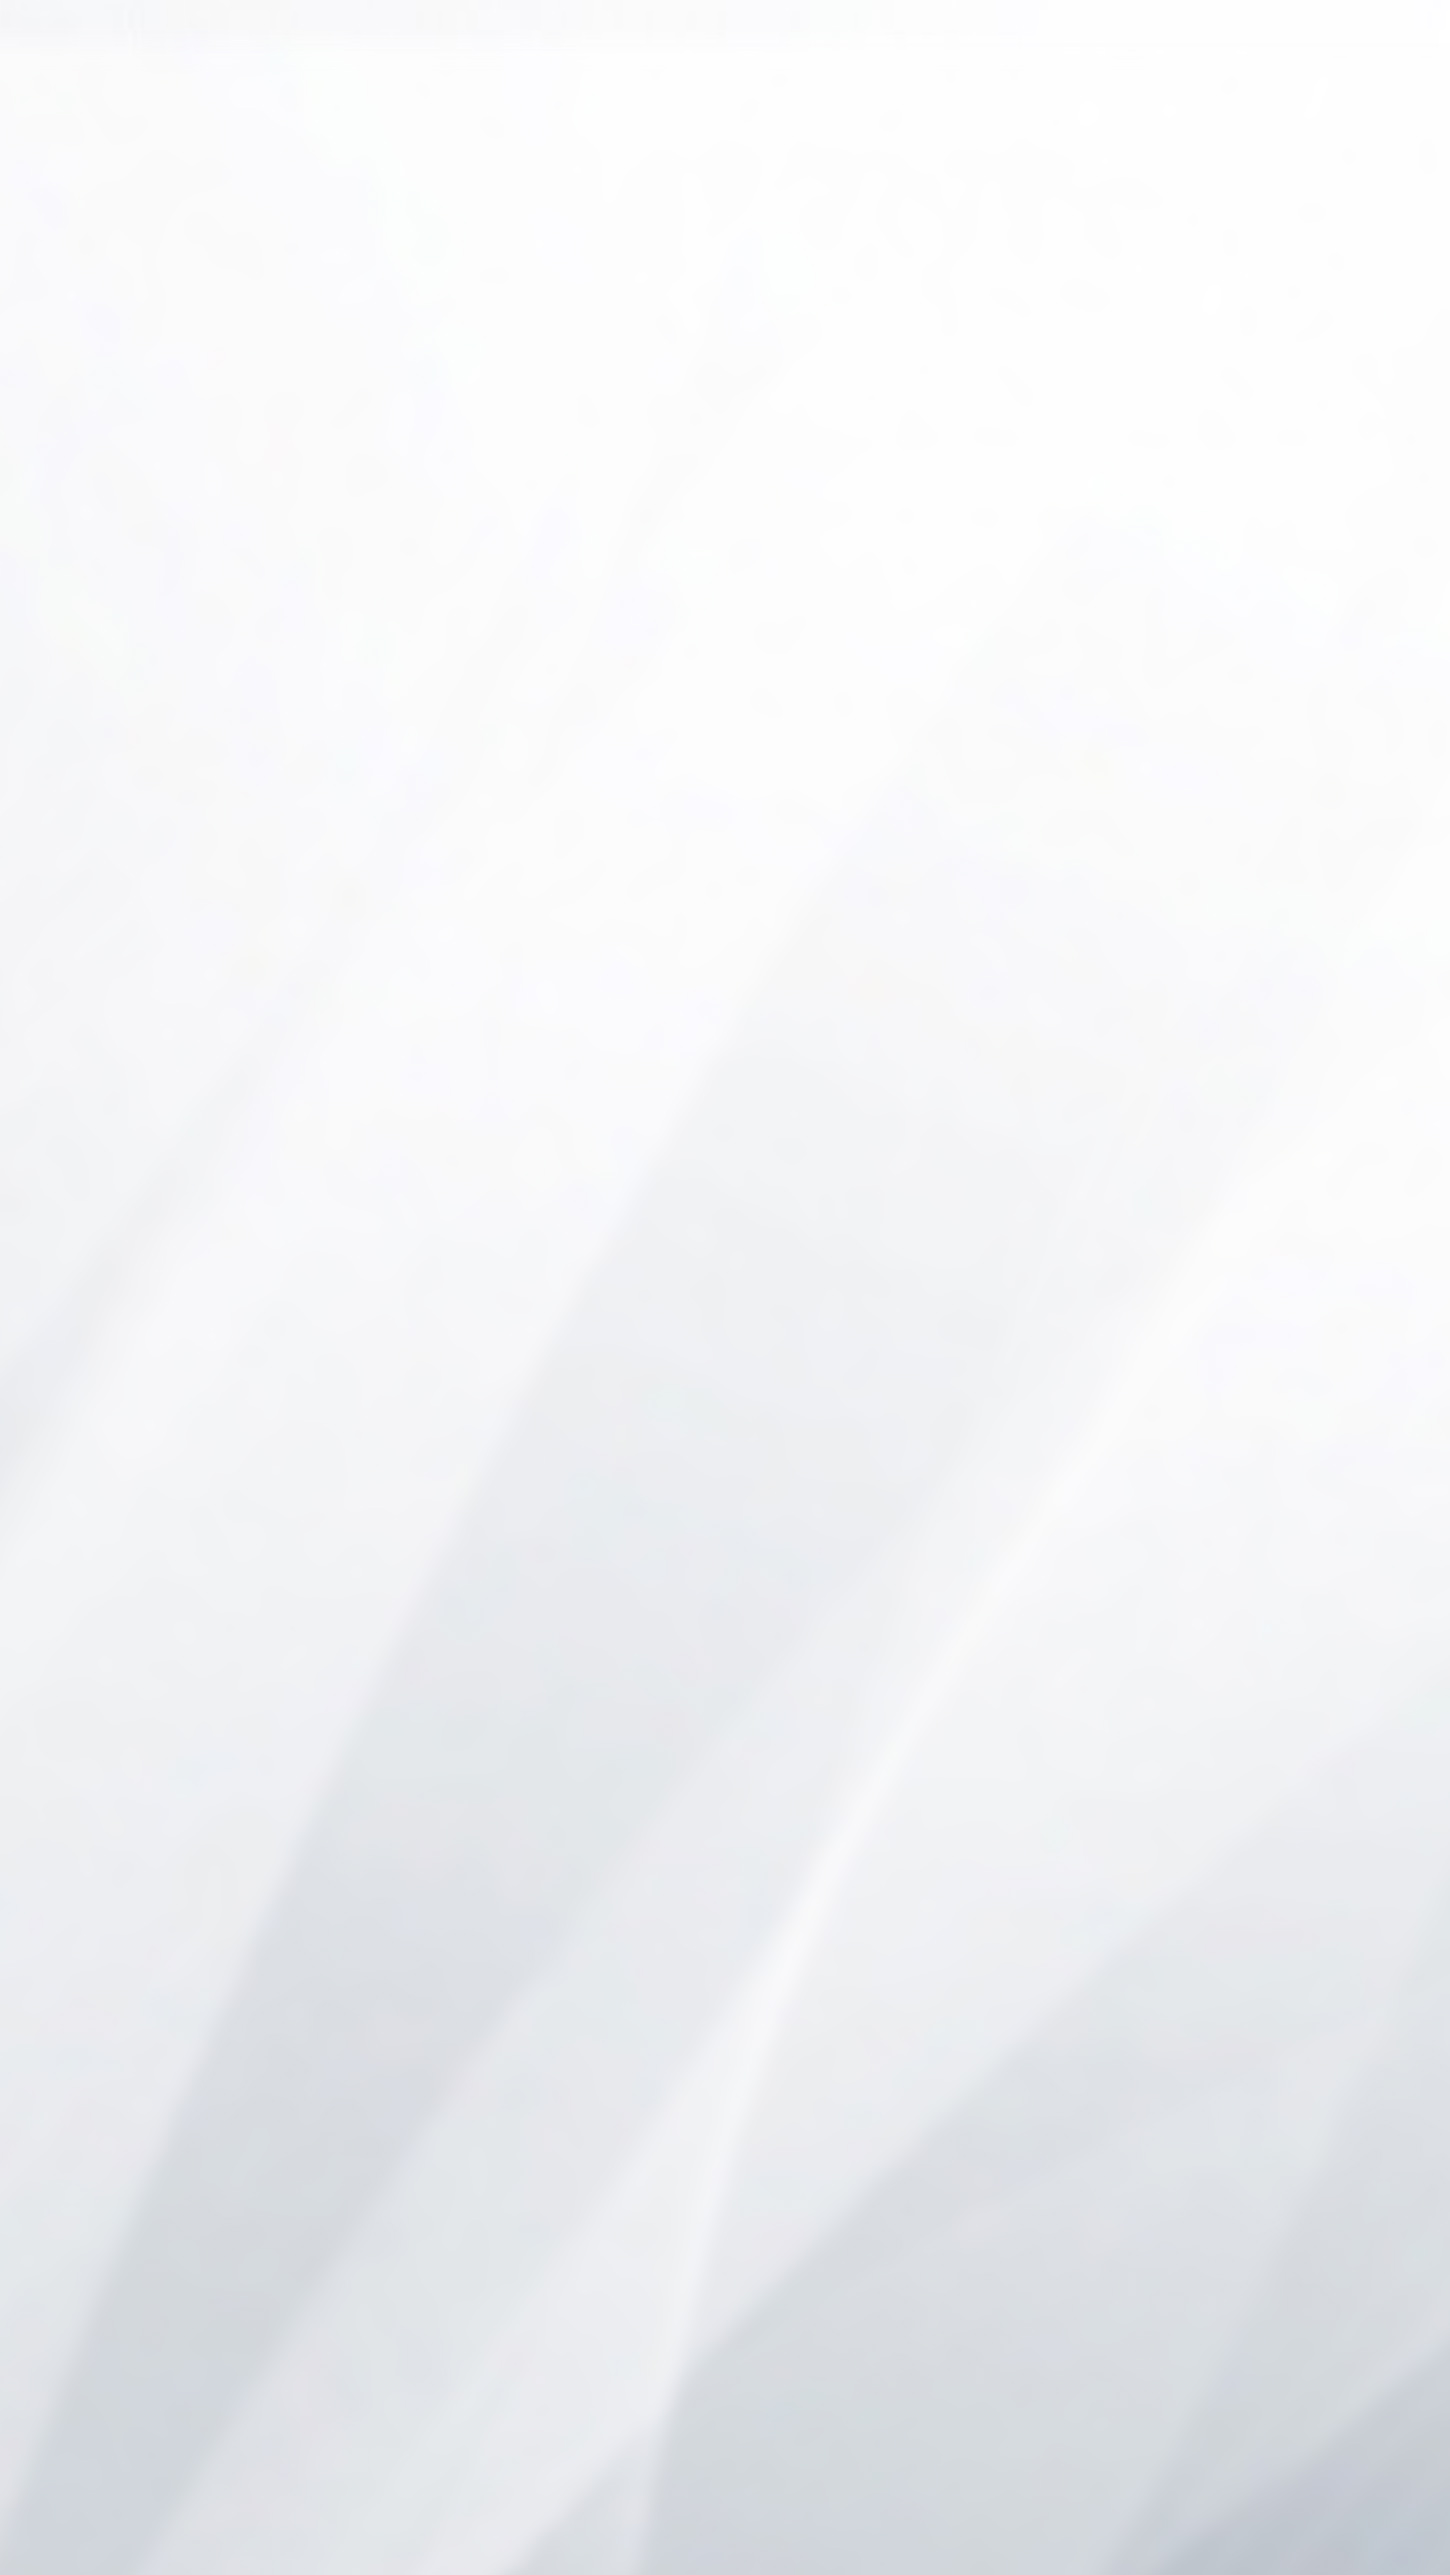
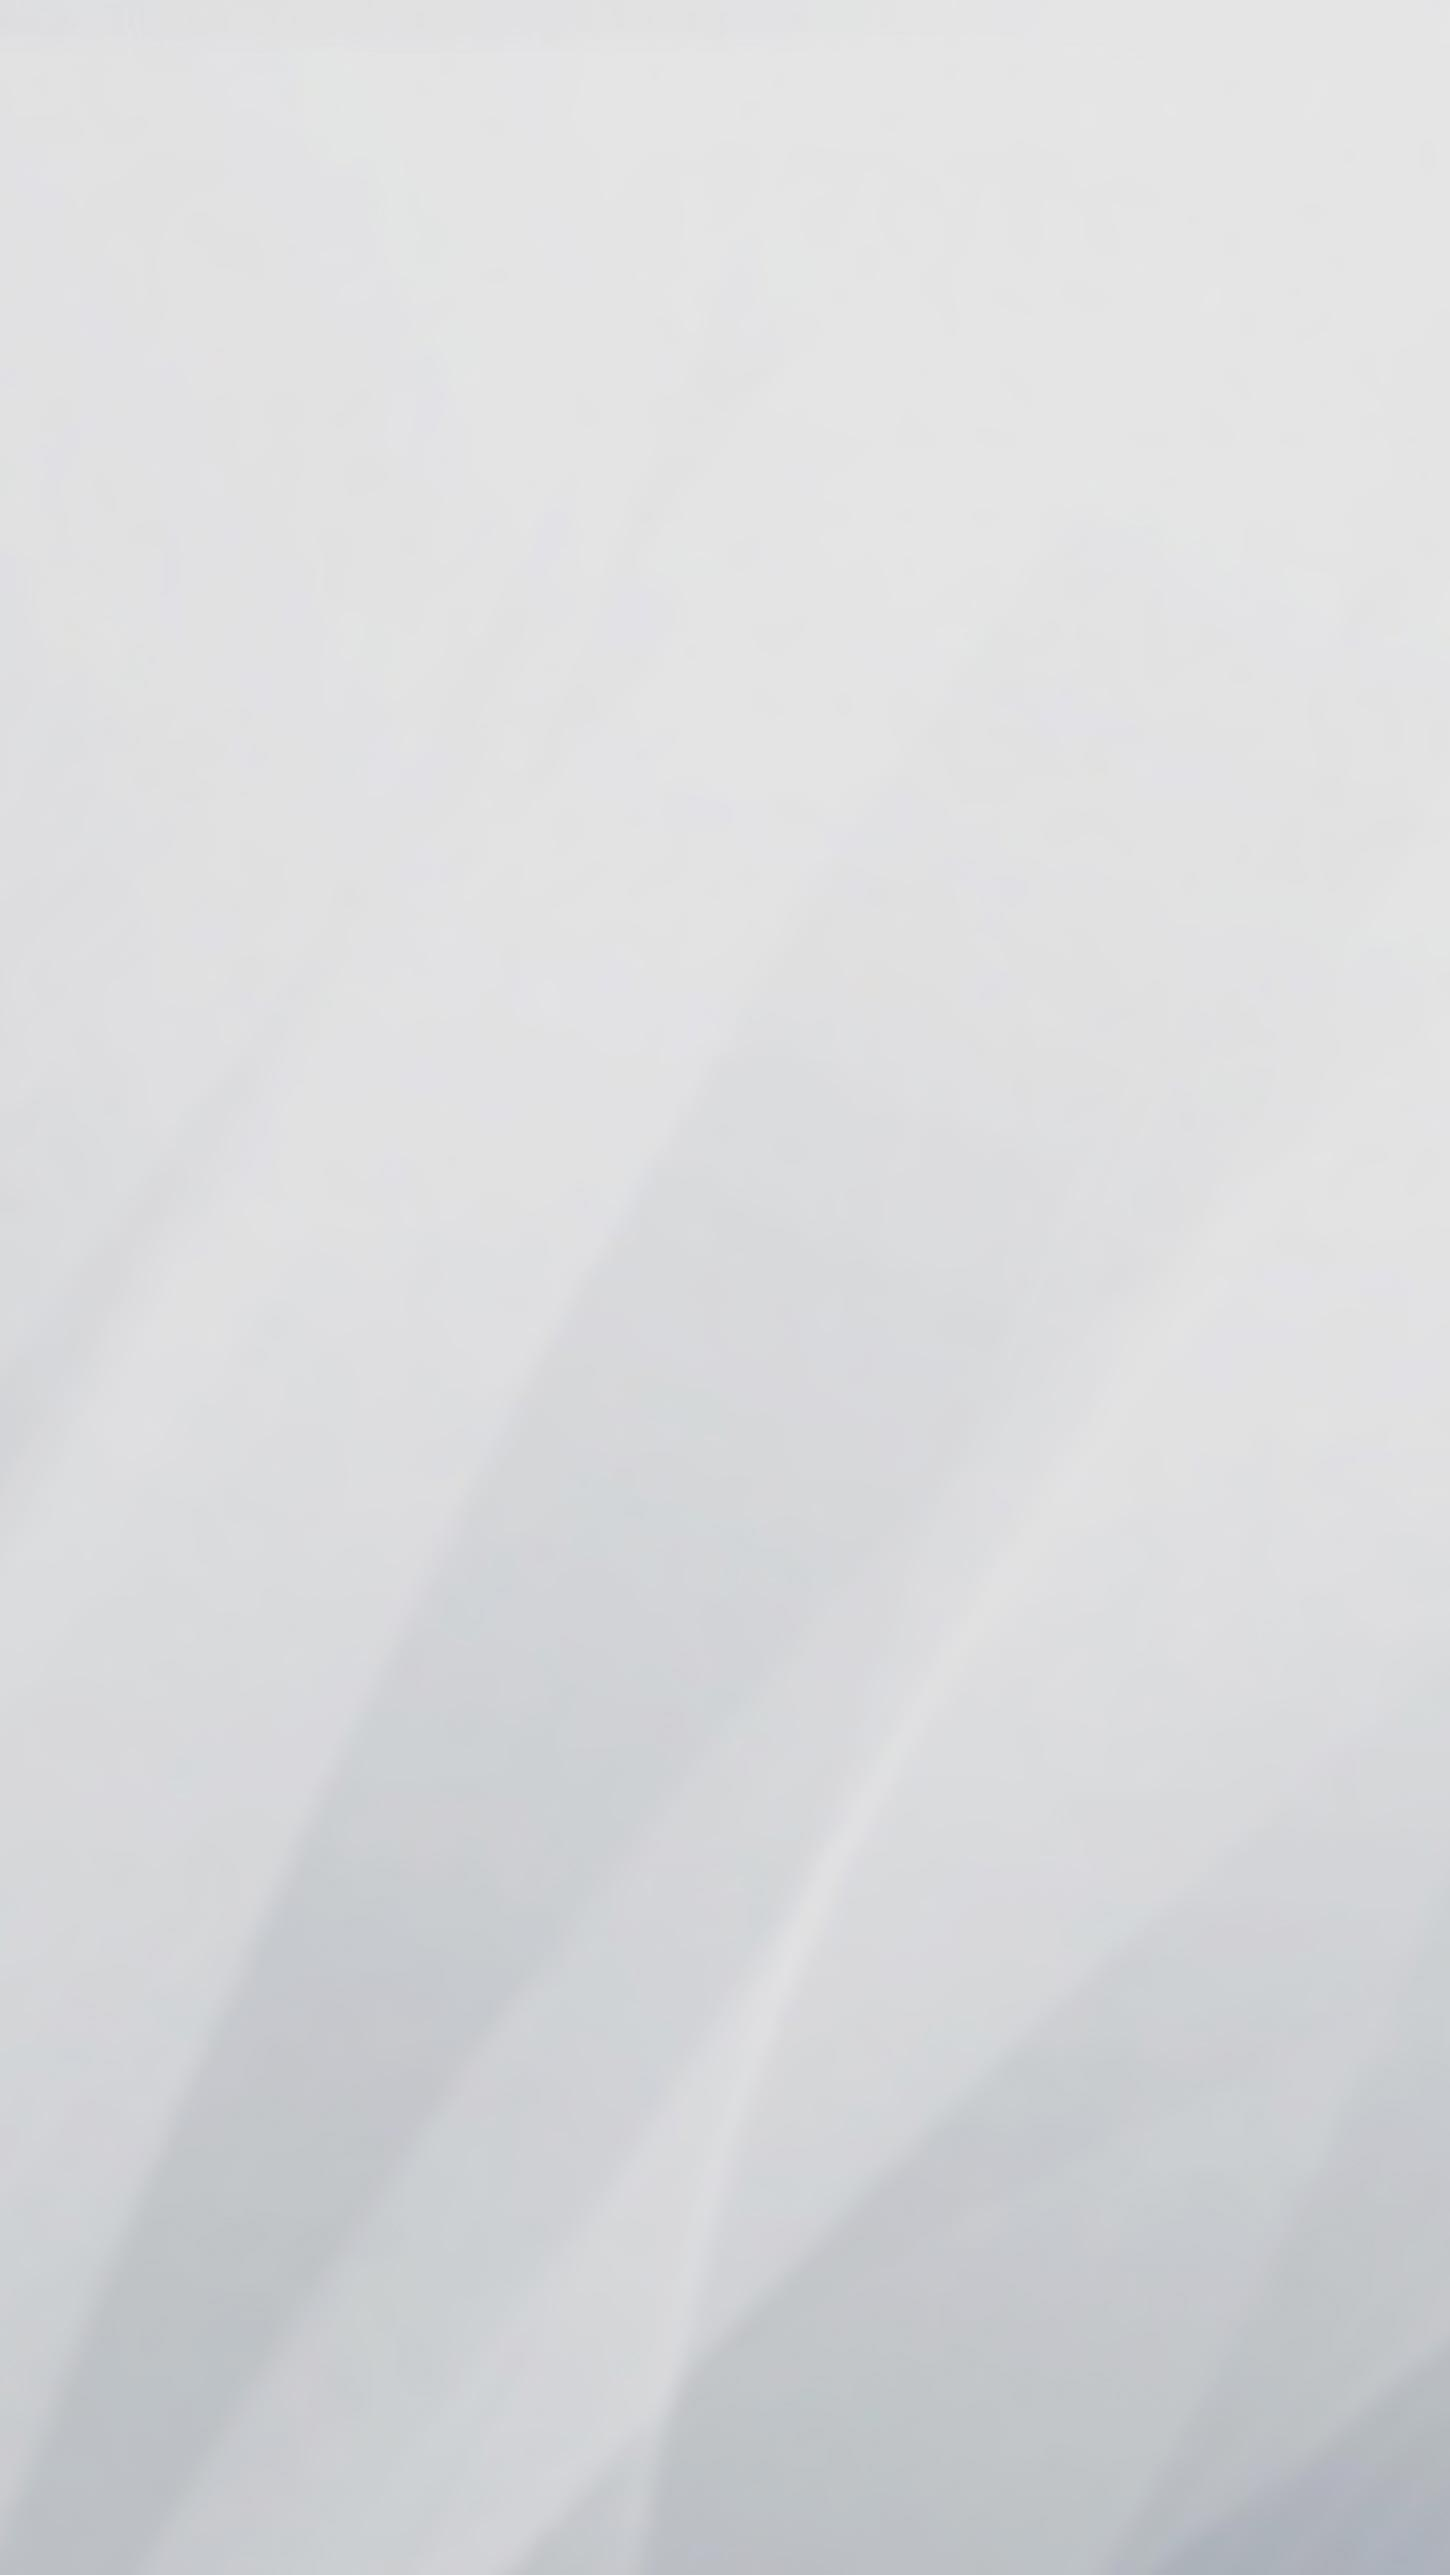
oki

diff --git a/data/login.html b/data/login.html
@@ -92,7 +92,7 @@
         <div id="top_bar_space"></div>
         <div class="options_bar_space">
             <div id="btn_left" class="arrow"><button onclick="goIndex();" id="txtback_login">Back</button></div>
-          
+            <div id="txt_maintitle">&nbsp;</div>
           <div id="btn_right"><button></button></div>
         </div>      
     </header>

diff --git a/css/style.css b/css/style.css
@@ -212,6 +212,10 @@ header button:active{
 #content{
     -webkit-transform: translate3d(0,64px,0);
     transform: translate3d(0,64px,0);
+    background-image: url('../img/background.jpg');
+    background-attachment: fixed;
+    background-position: center top;
+    background-size: cover;
 }
 
 .logo-name{
